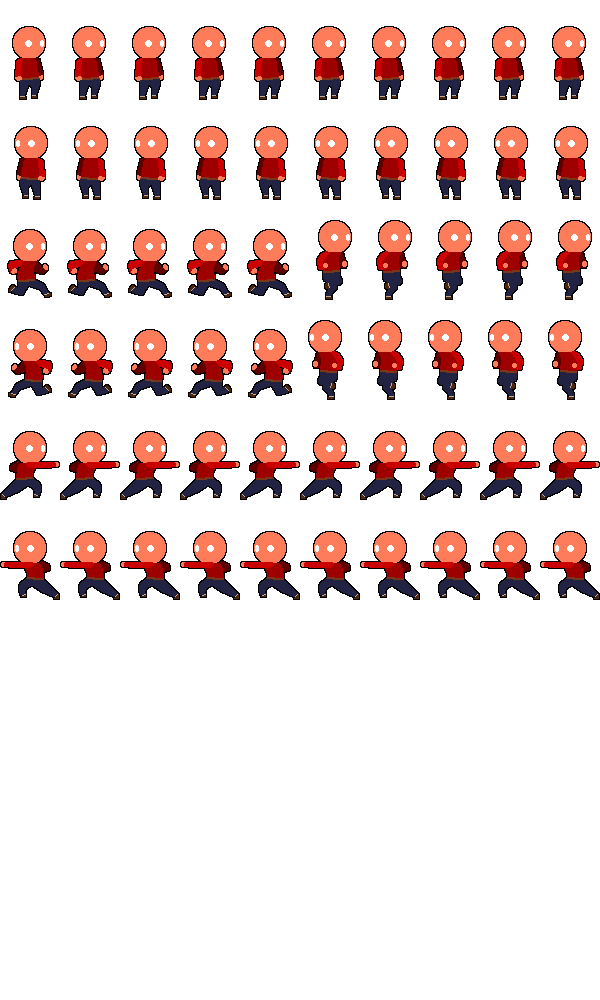
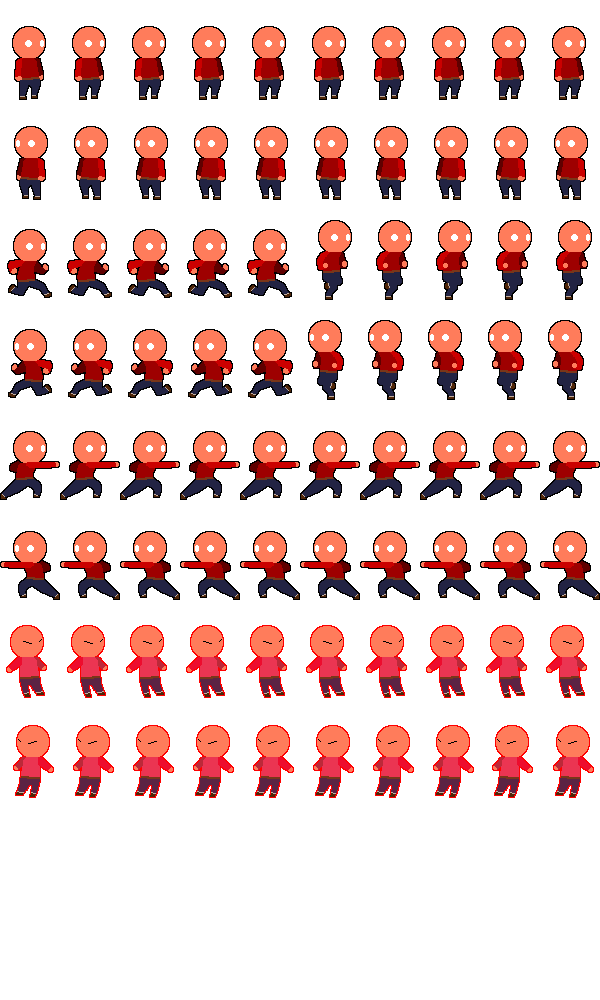
Implement unit damaged animation

diff --git a/src/game/unit.cpp b/src/game/unit.cpp
@@ -12,6 +12,7 @@ Unit::Unit(int x, int y, float scale) {
 	calculateScreenPos();
 	face_right = true;
 	attacking = false;
+	damaged = false;
 
 	// Set a default sprite
 	setSprite();
@@ -35,6 +36,8 @@ void Unit::setSprite(const std::string & name, int frame_w, int frame_h) {
 	addAnimation(30, 39);
 	addAnimation(40, 49);
 	addAnimation(50, 59);
+	addAnimation(60, 69);
+	addAnimation(70, 79);
 }
 
 void Unit::addAnimation(unsigned int start, unsigned int end) {
@@ -100,8 +103,6 @@ void Unit::move(Direction dir, int distance) {
 
 // TODO: (Ian) Profile this and decide if logic needs to be changed (Probably not)
 void Unit::move(Direction dir, int distance, const Map & map) {
-	LOG("DISTANCE " << distance);
-	LOG("POSITION: " << x << ", " << y);
 	// If the player is already off the map, then RIP
 	if (!map.pointInMap({ x, y })) return;
 	switch (dir) {
@@ -130,29 +131,42 @@ void Unit::move(Direction dir, int distance, const Map & map) {
 	case Direction::RIGHT: { spriteMoveRight(); } break;
 	case Direction::LEFT: { spriteMoveLeft(); } break;
 	}
-	LOG("END POSITION: " << x << ", " << y);
 	calculateScreenPos();
 	return;
 }
 
 void Unit::attack_primary() {
-	// Play the attack animation
-	if (face_right) {
-		playAnimation(UNIT_ANIM_PUNCH_RIGHT);
-		queueAnimation(UNIT_ANIM_IDLE_RIGHT);
+	if (attacking) {
+		if (attack_timer.getTicks() > ATTACK_TIMER_DEFAULT) {
+			attacking = false;
+		}
+	} else if (damaged) {
+		if (damaged_timer.getTicks() > DAMAGE_TIMER_DEFAULT) {
+			damaged = false;
+		}
 	} else {
-		playAnimation(UNIT_ANIM_PUNCH_LEFT);
-		queueAnimation(UNIT_ANIM_IDLE_LEFT);
+		// Play the attack animation
+		if (face_right) {
+			playAnimation(UNIT_ANIM_PUNCH_RIGHT);
+			queueAnimation(UNIT_ANIM_IDLE_RIGHT);
+		} else {
+			playAnimation(UNIT_ANIM_PUNCH_LEFT);
+			queueAnimation(UNIT_ANIM_IDLE_LEFT);
+		}
+		// Set the animation timer
+		attacking = true;
+		attack_timer.reset();
 	}
-	// Set the animation timer
-	attacking = true;
-	attack_timer.reset();
 }
 
 void Unit::spriteMoveUp() {
 	if (attacking) {
 		if (attack_timer.getTicks() > ATTACK_TIMER_DEFAULT) {
 			attacking = false;
+		}
+	} else if (damaged) {
+		if (damaged_timer.getTicks() > DAMAGE_TIMER_DEFAULT) {
+			damaged = false;
 		}
 	} else {
 		// Play the run animation based on the direction the unit is facing
@@ -169,6 +183,10 @@ void Unit::spriteMoveDown() {
 		if (attack_timer.getTicks() > ATTACK_TIMER_DEFAULT) {
 			attacking = false;
 		}
+	} else if (damaged) {
+		if (damaged_timer.getTicks() > DAMAGE_TIMER_DEFAULT) {
+			damaged = false;
+		}
 	} else {
 		// Play the run animation based on the direction the unit is facing
 		if (face_right) {
@@ -184,6 +202,10 @@ void Unit::spriteMoveRight() {
 		if (attack_timer.getTicks() > ATTACK_TIMER_DEFAULT) {
 			attacking = false;
 		}
+	} else if (damaged) {
+		if (damaged_timer.getTicks() > DAMAGE_TIMER_DEFAULT) {
+			damaged = false;
+		}
 	} else {
 		// Make the sprite face right and play the right animation
 		face_right = true;
@@ -195,6 +217,10 @@ void Unit::spriteMoveLeft() {
 	if (attacking) {
 		if (attack_timer.getTicks() > ATTACK_TIMER_DEFAULT) {
 			attacking = false;
+		}
+	} else if (damaged) {
+		if (damaged_timer.getTicks() > DAMAGE_TIMER_DEFAULT) {
+			damaged = false;
 		}
 	} else {
 		// Make the sprite face left and play the right animation
@@ -208,6 +234,10 @@ void Unit::spriteStopMove() {
 		if (attack_timer.getTicks() > ATTACK_TIMER_DEFAULT) {
 			attacking = false;
 		}
+	} else if (damaged) {
+		if (damaged_timer.getTicks() > DAMAGE_TIMER_DEFAULT) {
+			damaged = false;
+		}
 	} else {
 		// Play the idle animation based on the direction the unit is facing
 		// Play the run animation based on the direction the unit is facing
@@ -217,6 +247,21 @@ void Unit::spriteStopMove() {
 			playAnimation(UNIT_ANIM_IDLE_LEFT, false);
 		}
 	}
+}
+
+void Unit::spriteDamaged() {
+	LOG("SPRITE DAMAGED!");
+	// Play the danaged animation
+	if (face_right) {
+		playAnimation(UNIT_ANIM_DAMAGE_RIGHT);
+		queueAnimation(UNIT_ANIM_IDLE_RIGHT);
+	} else {
+		playAnimation(UNIT_ANIM_DAMAGE_LEFT);
+		queueAnimation(UNIT_ANIM_IDLE_LEFT);
+	}
+	// Set the animation timer
+	damaged = true;
+	damaged_timer.reset();
 }
 
 void Unit::setScreenScale(float scale) {

diff --git a/server/src/game/map.cpp b/server/src/game/map.cpp
@@ -79,6 +79,43 @@ void Map::generate() {
 
 	generateSpawnRoom();
 
+	// Make sure there are no duplicates otherwise everything breaks down
+	std::vector<int> room_remove_indices;
+	for (int i = 0; i < main_rooms.size(); ++i) {
+		for (int j = i + 1; j < main_rooms.size(); ++j) {
+			bool rem = false;
+			for (int k : room_remove_indices) if (j == k) rem = true;
+			if (rem) continue;
+			const Room& r1 = main_rooms[i];
+			const Room& r2 = main_rooms[j];
+			// Only need to check positions because then the rooms overlap
+			if (r1.pos.x == r2.pos.x && r1.pos.y == r2.pos.y) {
+				room_remove_indices.push_back(j);
+			}
+		}
+	}
+	std::vector<int> hall_remove_indices;
+	for (int i = 0; i < hallways.size(); ++i) {
+		for (int j = i + 1; j < hallways.size(); ++j) {
+			bool rem = false;
+			for (int k : hall_remove_indices) if (j == k) rem = true;
+			if (rem) continue;
+			const Edge& e1 = hallways[i];
+			const Edge& e2 = hallways[j];
+			// Only need to check positions because then the rooms overlap
+			if (e1.v1.x == e2.v1.x && e1.v1.y == e2.v1.y && e1.v2.x == e2.v2.x && e1.v2.y == e2.v2.y) {
+				hall_remove_indices.push_back(j);
+			}
+		}
+	}
+	// Go by reverse so that the indices remain correct
+	for (int i = room_remove_indices.size() - 1; i >= 0; ++i) {
+		main_rooms.erase(main_rooms.begin() + i);
+	}
+	for (int i = hall_remove_indices.size() - 1; i >= 0; ++i) {
+		hallways.erase(hallways.begin() + i);
+	}
+
 }
 
 

diff --git a/src/game/unit.hpp b/src/game/unit.hpp
@@ -19,8 +19,11 @@
 #define UNIT_ANIM_RUN_LEFT		3
 #define UNIT_ANIM_PUNCH_RIGHT	4
 #define UNIT_ANIM_PUNCH_LEFT	5
+#define UNIT_ANIM_DAMAGE_RIGHT	6
+#define UNIT_ANIM_DAMAGE_LEFT	7
 
 #define ATTACK_TIMER_DEFAULT	500
+#define DAMAGE_TIMER_DEFAULT	400
 
 class Map;
 
@@ -63,6 +66,7 @@ public:
 	void spriteMoveRight();
 	void spriteMoveLeft();
 	void spriteStopMove();
+	void spriteDamaged();
 	void setScreenScale(float scale);
 	void calculateScreenPos();
 
@@ -79,6 +83,8 @@ protected:
 	bool face_right;
 	bool attacking;
 	Clock attack_timer;
+	bool damaged;
+	Clock damaged_timer;
 
 	// The sprite of the unit
 	mutable AnimatedSprite sprite;

diff --git a/src/game/game.cpp b/src/game/game.cpp
@@ -247,7 +247,17 @@ void Game::packetRecieved(Socket::BasicPacket packet) {
 				}
 			}
 			if (con_packet.first == PACKET_UNIT_DAMAGED) {
-				LOG("UNIT DAMAGED!");
+				// If the unit is the player, damage it
+				if (con_packet.second == client_id) {
+					player.damaged();
+				} else {
+					// Otherwise, find the unit and play it's damage animation
+					for (auto it = units.begin(); it != units.end(); ++it) {
+						if ((*it).first == con_packet.second) {
+							(*it).second.spriteDamaged();
+						}
+					}
+				}
 			}
 		}
 		if (Socket::getPacketType(packet) == PACKET_3I) {

diff --git a/server/src/game/instance.cpp b/server/src/game/instance.cpp
@@ -47,6 +47,7 @@ void Instance::packetRecieved(Socket::Packet<Socket::BasicPacket> packet) {
             }
         }
         if (packet2i.first == PACKET_PACKETS_RECIEVED) {
+            LOG("PACkeTS: " << packet2i.second << " - " << map.numPackets());
             if (packet2i.second == map.numPackets()) {
                 // Send a ready packet if the player has recieved all the packets
                 Socket::Packet1i ready_packet = { PACKET_DUNGEON_READY };

diff --git a/src/game/player.cpp b/src/game/player.cpp
@@ -139,6 +139,13 @@ void Player::renderUI() {
 	}
 }
 
+void Player::damaged() {
+	// Play the animation
+	unit->spriteDamaged();
+	// TODO: (Ian) Set invuln timers and what not
+	// TODO: (Ian) Update health here
+}
+
 void Player::attack_primary() {
 	// Play the animation
 	unit->attack_primary();

diff --git a/src/game/player.hpp b/src/game/player.hpp
@@ -49,6 +49,7 @@ public:
 	void renderUI();
 
 	// Player attack methods
+	void damaged();
 	void attack_primary();
 
 private:
